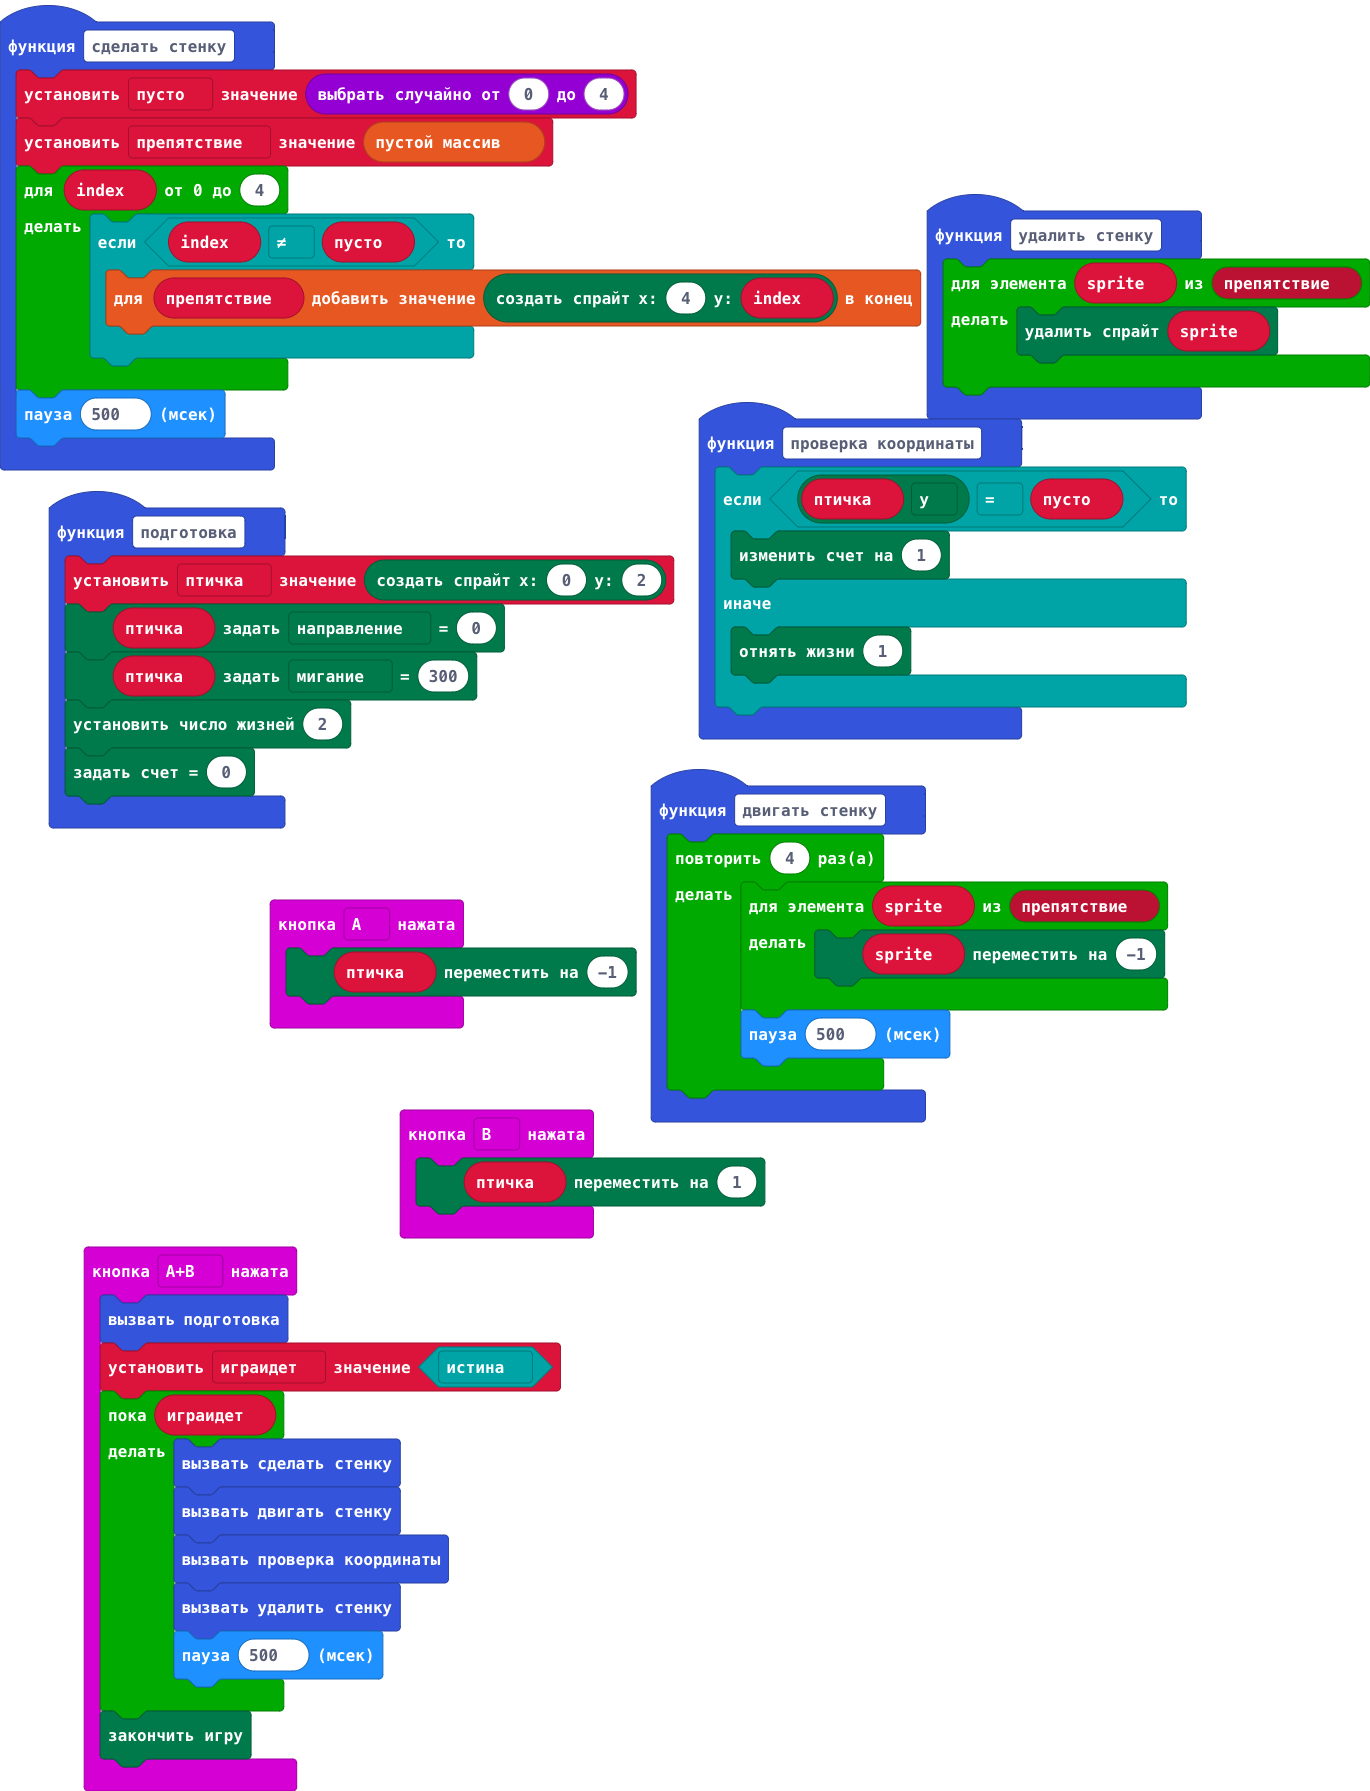
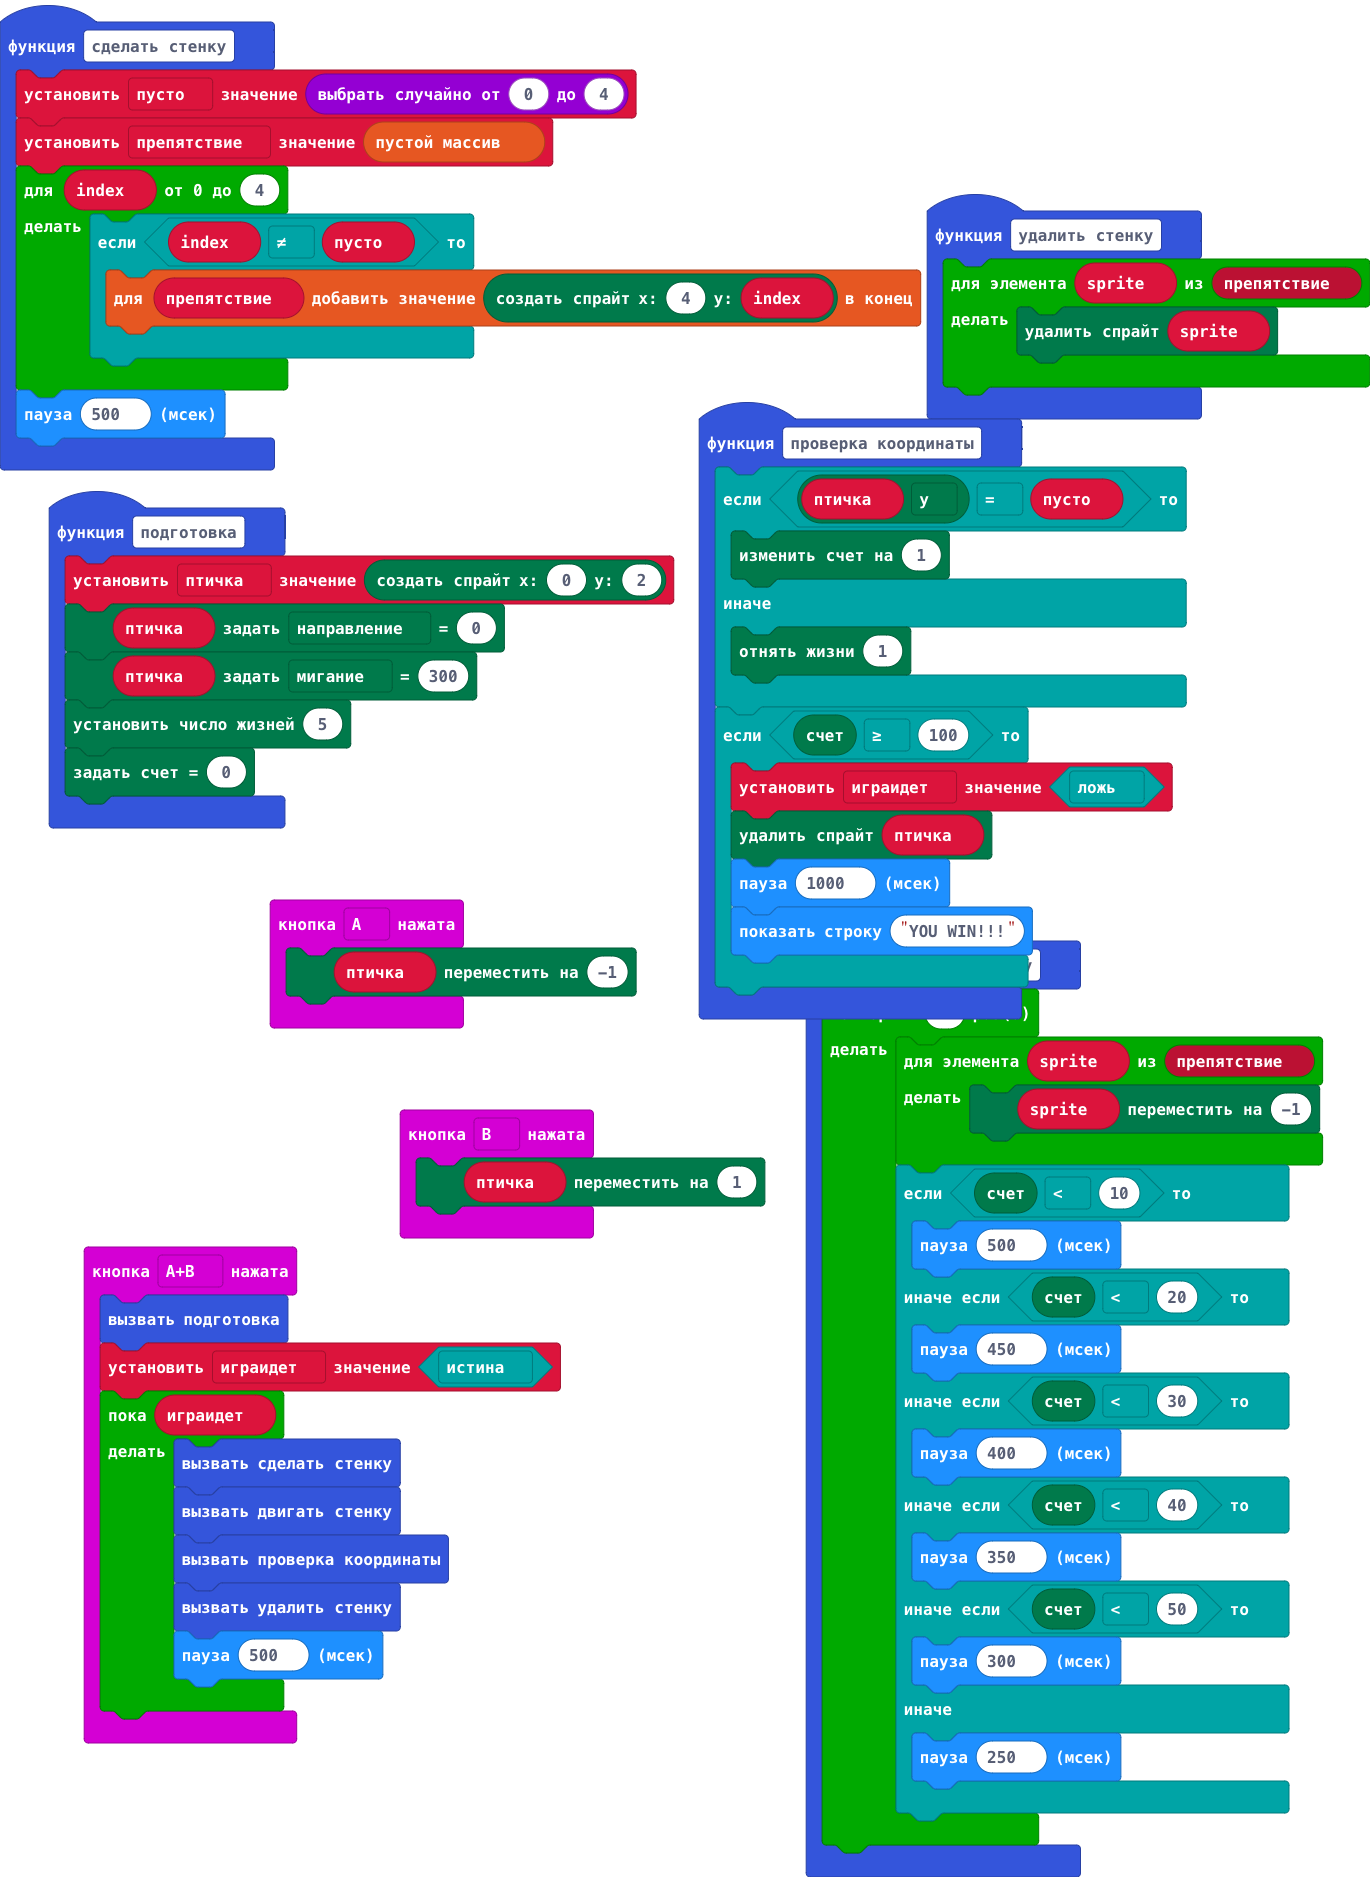
100

diff --git a/main.ts b/main.ts
@@ -25,7 +25,6 @@ input.onButtonPressed(Button.AB, function () {
         удалить_стенку()
         basic.pause(500)
     }
-    game.gameOver()
 })
 input.onButtonPressed(Button.B, function () {
     птичка.move(1)
@@ -34,7 +33,7 @@ function подготовка () {
     птичка = game.createSprite(0, 2)
     птичка.set(LedSpriteProperty.Direction, 0)
     птичка.set(LedSpriteProperty.Blink, 300)
-    game.setLife(2)
+    game.setLife(5)
     game.setScore(0)
 }
 function двигать_стенку () {
@@ -42,7 +41,19 @@ function двигать_стенку () {
         for (let sprite of препятствие) {
             sprite.move(-1)
         }
-        basic.pause(500)
+        if (game.score() < 10) {
+            basic.pause(500)
+        } else if (game.score() < 20) {
+            basic.pause(450)
+        } else if (game.score() < 30) {
+            basic.pause(400)
+        } else if (game.score() < 40) {
+            basic.pause(350)
+        } else if (game.score() < 50) {
+            basic.pause(300)
+        } else {
+            basic.pause(250)
+        }
     }
 }
 function удалить_стенку () {
@@ -55,5 +66,11 @@ function проверка_координаты () {
         game.addScore(1)
     } else {
         game.removeLife(1)
+    }
+    if (game.score() >= 100) {
+        играидет = false
+        птичка.delete()
+        basic.pause(1000)
+        basic.showString("YOU WIN!!!")
     }
 }
